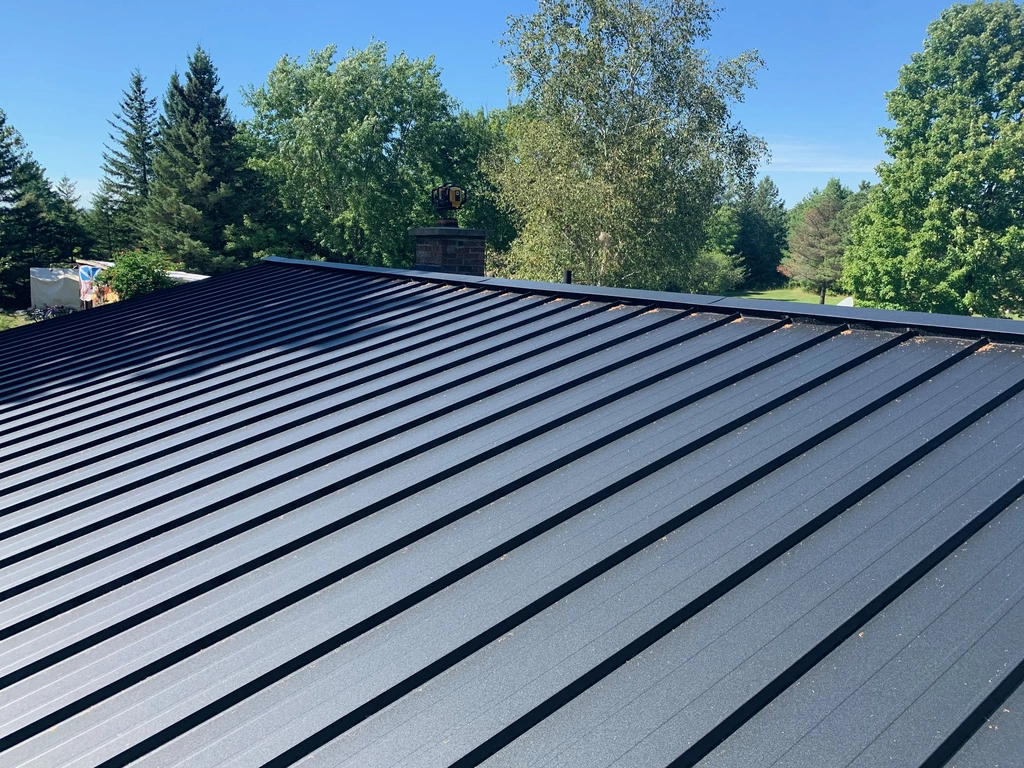
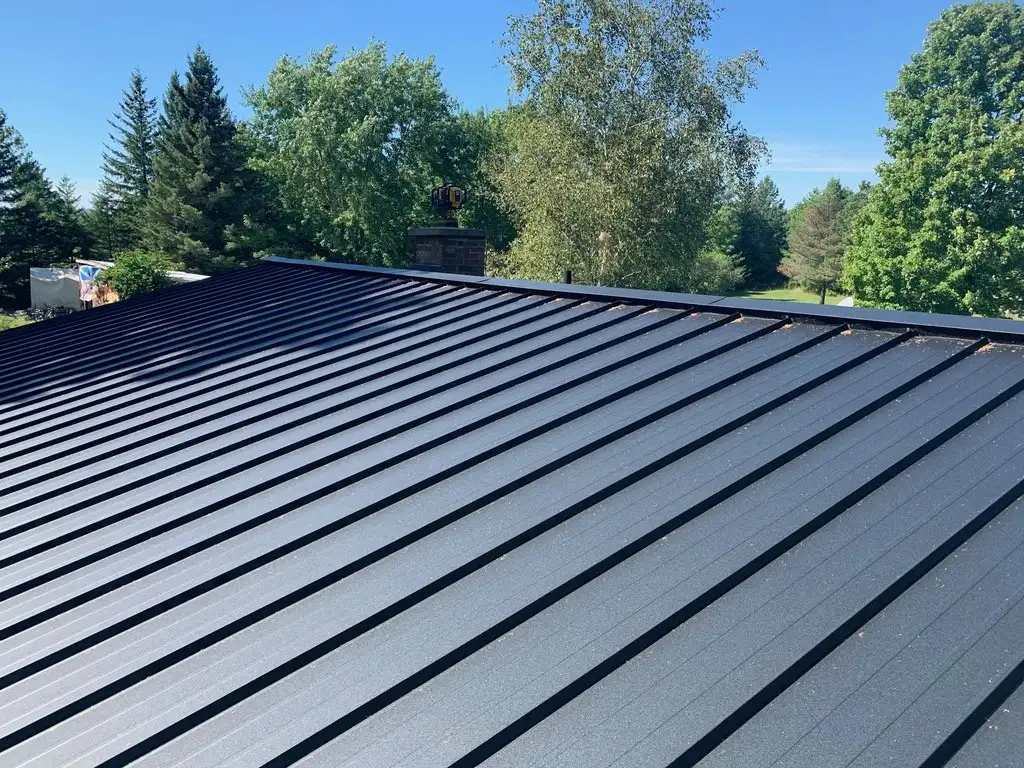
Replace images with .webp files

diff --git a/src/app/page.tsx b/src/app/page.tsx
@@ -49,7 +49,7 @@ export default function Home() {
         </div>
 
         <section id="home" className="block h-screen mb-40 ">
-          <Background imgSrc={"/images/beautiful-brown-metal-roof.jpg"}>
+          <Background imgSrc={"/images/beautiful-brown-metal-roof.webp"}>
             <motion.p
               initial={initialBlur}
               animate={visible}
@@ -146,7 +146,7 @@ function SecondSection() {
             ROOFING DONE
           </motion.h1>
           {/* 1st image */}
-          <div className="h-full lg:px-20 pb-14 pt-6 flex items-center">
+          <div className="h-full w-full lg:px-20 pb-14 pt-6 flex items-center">
             <motion.div
               style={{ opacity: opacity[2], filter: blur[2] }}
               transition={{ delay: 0.25 * 5, duration: 0.8 }}
@@ -154,9 +154,10 @@ function SecondSection() {
             >
               <Image
                 className="h-full object-cover"
-                src={"/images/cf-shingle_barkwood.jpg"}
+                src={"/images/cf-shingle_barkwood.webp"}
                 width={2560}
                 height={1920}
+                // fill
                 alt="Barkwood shingle"
               ></Image>
               <p className="font-serif text-xl mt-1">Barkwood shingle</p>
@@ -172,7 +173,7 @@ function SecondSection() {
           >
             <Image
               className="object-cover h-full"
-              src={"/images/bituminous-shingles.jpg"}
+              src={"/images/bituminous-shingles.webp"}
               width={2000}
               height={1324}
               alt="Bituminous shingles"
@@ -329,7 +330,7 @@ function AboutSection() {
               className="w-full "
             >
               <Image
-                src={"/images/about-us/landmark-shingles-CertainTeed.jpeg"}
+                src={"/images/about-us/landmark-shingles-CertainTeed.webp"}
                 width={1610}
                 height={1074}
                 alt=""
@@ -364,7 +365,7 @@ function AboutSection() {
               <Image
                 className="object-cover"
                 src={
-                  "/images/about-us/construction-worker-on-a-renovation-roof-the-house-installed-new-shingles.jpg"
+                  "/images/about-us/construction-worker-on-a-renovation-roof-the-house-installed-new-shingles.webp"
                 }
                 width={2000}
                 height={1125}
@@ -427,7 +428,7 @@ function AboutUsDetails() {
       <div className="h-full w-full -z-10 absolute">
         <Image
           className="h-full w-full object-cover blur-sm p-16"
-          src={"/images/about-us/cf-shingle_barkwood_05_1.FUMVAQ-scaled.jpg"}
+          src={"/images/about-us/cf-shingle_barkwood_05_1.FUMVAQ-scaled.webp"}
           fill
           alt=""
         ></Image>

diff --git a/src/app/services/services.ts b/src/app/services/services.ts
@@ -8,25 +8,25 @@ export type ServiceType = {
 export const services: ServiceType[] = [
   {
     url: "/asphalt-shingles",
-    imgSrc: "/images/services/asphalt-shingles.jpg",
+    imgSrc: "/images/services/asphalt-shingles.webp",
     title: "Asphalt Shingles",
     id: "asphalt-shingles",
   },
   {
     url: "/metal-roofs",
-    imgSrc: "/images/services/metal-roofs2-upscaled.png",
+    imgSrc: "/images/services/metal-roofs.webp",
     title: "Metal Roofs",
     id: "metal-roofs",
   },
   {
     url: "/flat-roofs",
-    imgSrc: "/images/services/flat-roofs.jpg",
+    imgSrc: "/images/services/flat-roofs.webp",
     title: "Flat Roofs",
     id: "flat-roofs",
   },
   {
     url: "/synthetic-roofs",
-    imgSrc: "/images/services/synthetic-roofs.jpg",
+    imgSrc: "/images/services/synthetic-roofs.webp",
     title: "Synthetic Roofs",
     id: "synthetic-roofs",
   },
@@ -38,7 +38,7 @@ export const services: ServiceType[] = [
   },
   {
     url: "/roof-repair",
-    imgSrc: "/images/services/roof-repair.jpg",
+    imgSrc: "/images/services/roof-repair.webp",
     title: "Roof Repair",
     id: "roof-repair",
   },
